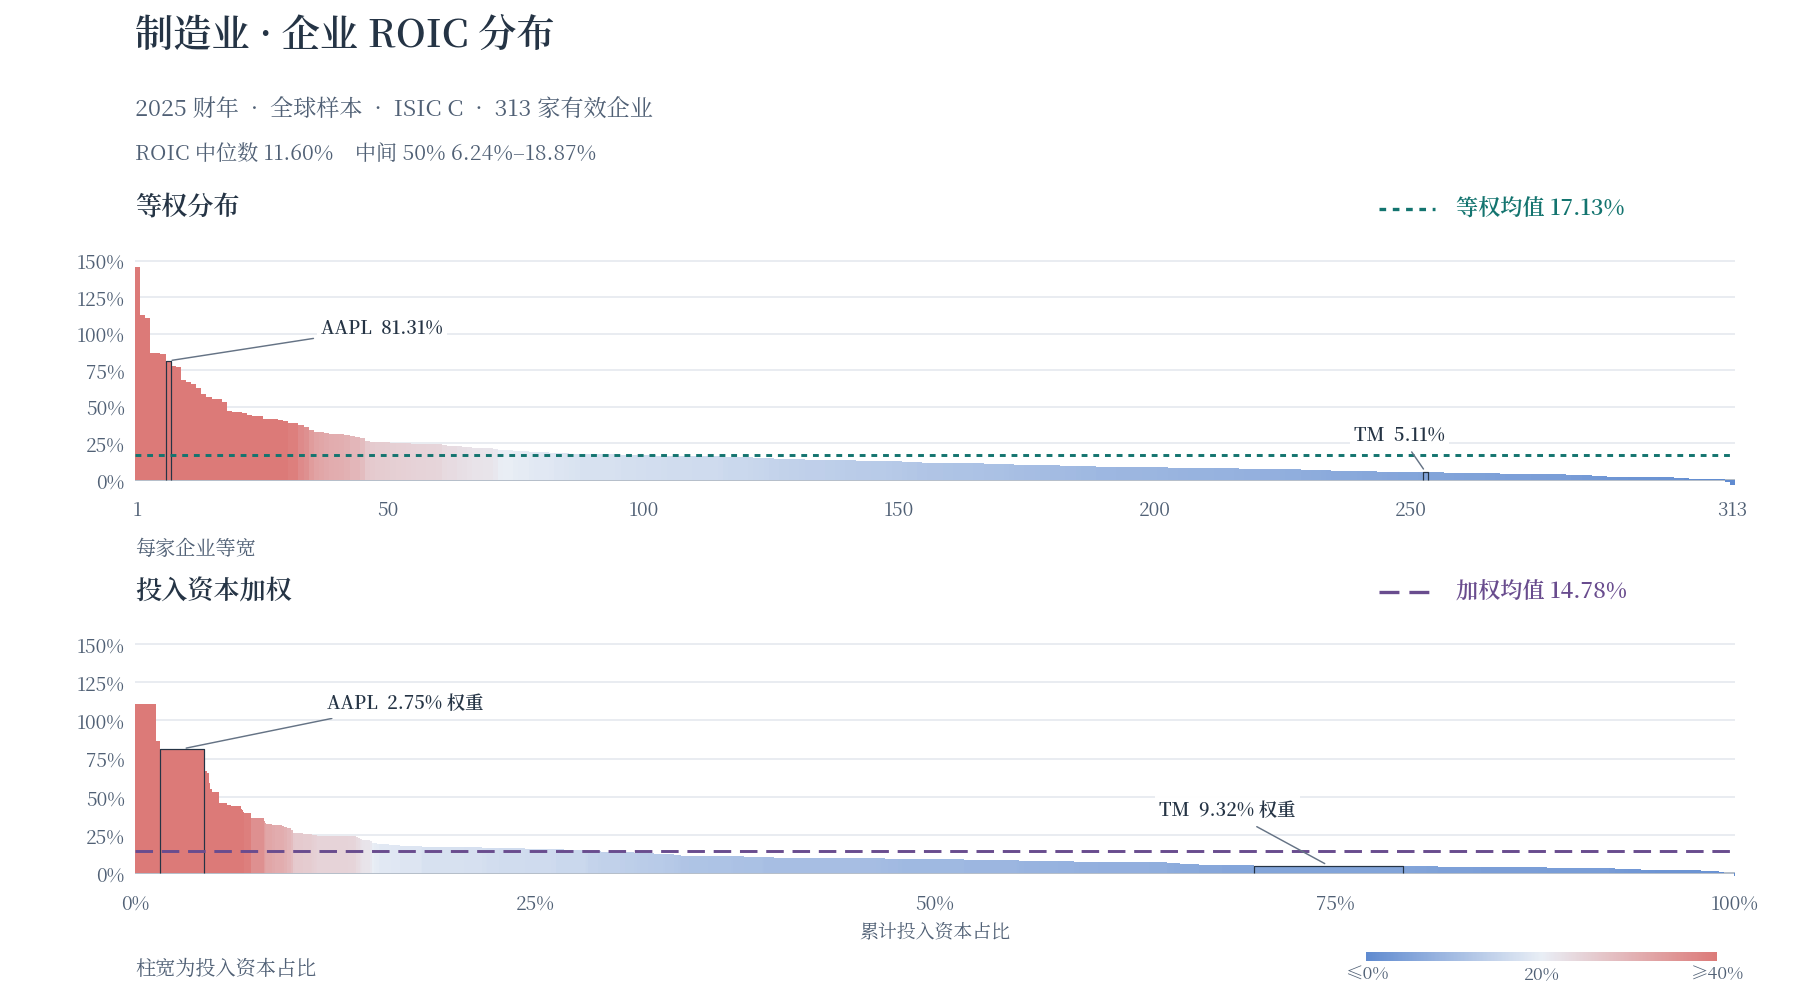
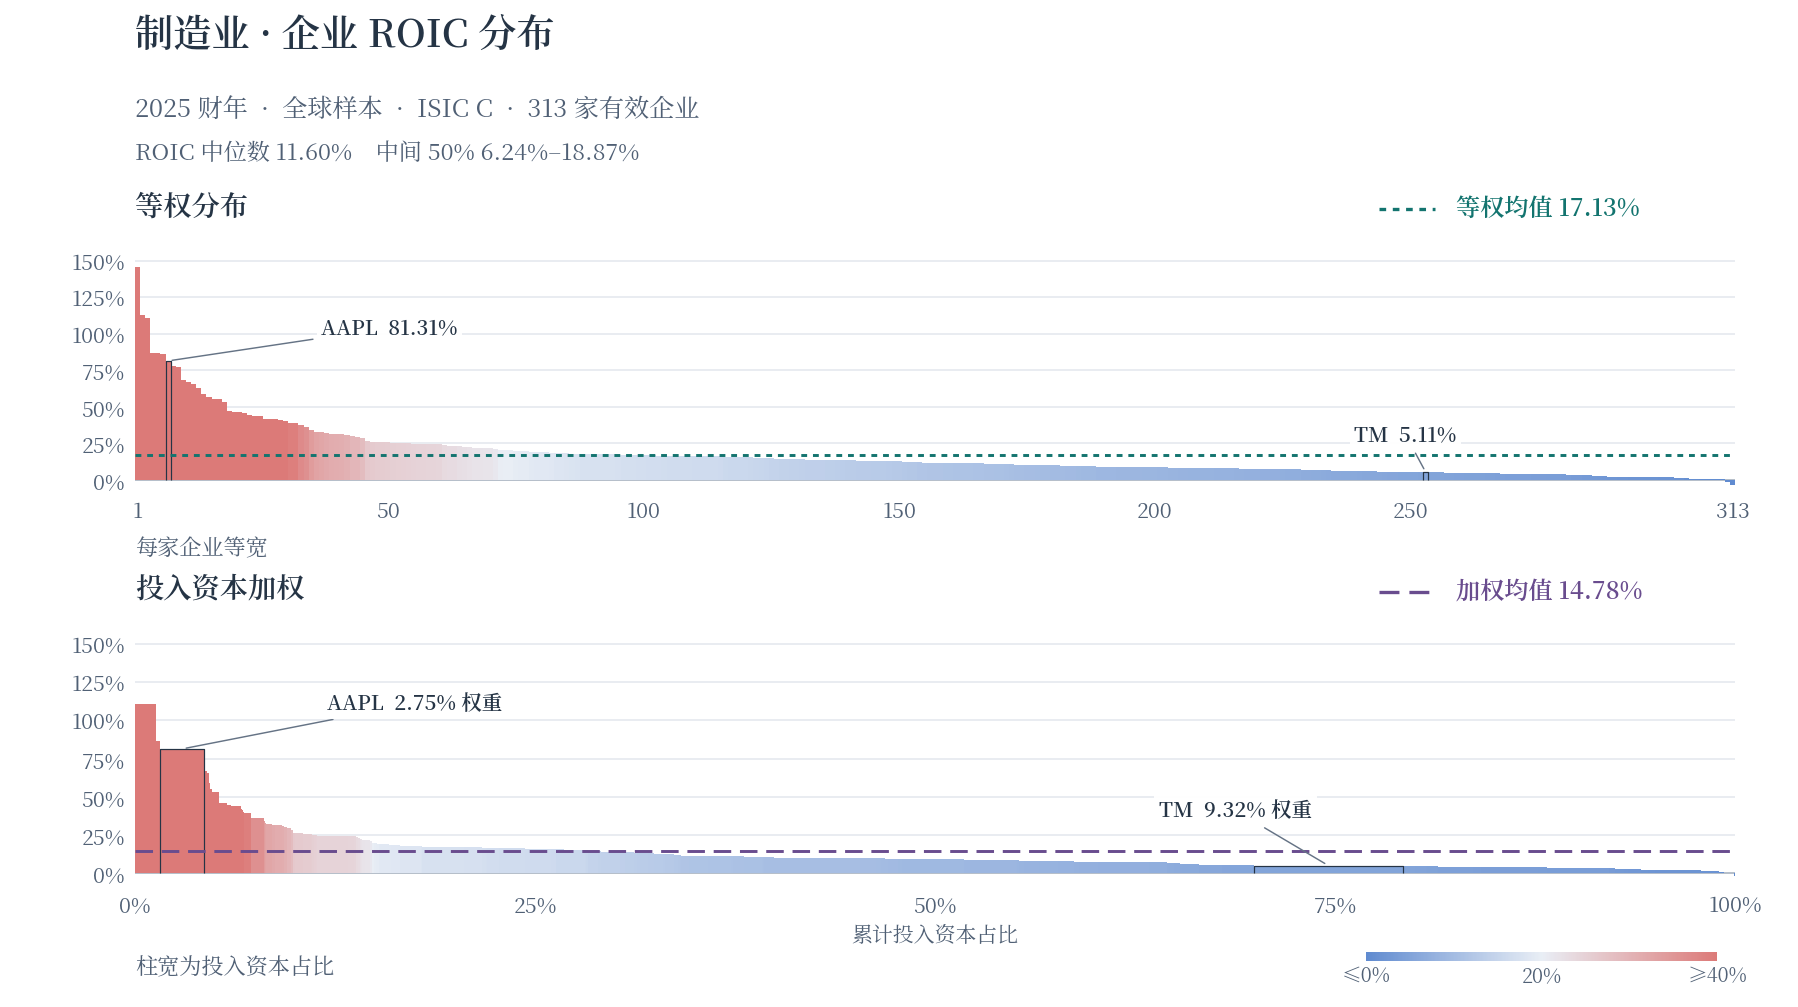
Duplicate trend charts and improve figure labels

diff --git a/dist/chart.js b/dist/chart.js
@@ -54,6 +54,14 @@ export function chartRows(charts) {
 export function canMoveChart(rows,index,direction) {
   return Boolean(rows[index+direction])||(rows.length===1&&rows[index].length>1);
 }
+export function insertChartBelow(charts,source,copy) {
+  const rows=chartRows(charts),index=rows.findIndex(row=>row.includes(source));
+  rows.splice(index+1,0,[copy]);
+  return numberChartRows(rows);
+}
+function numberChartRows(rows) {
+  return rows.flatMap((row,index)=>row.map(item=>Object.assign(item,{row:index})));
+}
 export function moveChartInRows(charts,chart,direction) {
   const rows=chartRows(charts);
   const index=rows.findIndex(row=>row.includes(chart)),current=rows[index],adjacent=rows[index+direction];
@@ -69,7 +77,7 @@ export function moveChartInRows(charts,chart,direction) {
     adjacent.forEach(item=>delete item.weight);
     rows.splice(index,1);
   }
-  return rows.flatMap((row,index)=>row.map(item=>Object.assign(item,{row:index})));
+  return numberChartRows(rows);
 }
 export const chartRowKey=row=>row.map(chart=>chart.id).join("|");
 export const chartParts=chart=>chart.parts??[chart];
@@ -96,11 +104,13 @@ function plotHTML(chart,plot,meta,live,valuesOpen) {
     '</summary><div class="chart-numbers-scroll" tabindex="0" aria-label="'+esc(pair("图表数值","Chart values"))+'"></div></details>';
 }
 function chartActions(rows,index,chart,live) {
+  const copyIcon='<svg viewBox="0 0 20 20" width="15" height="15" aria-hidden="true"><path d="M6 13H4a1 1 0 0 1-1-1V4a1 1 0 0 1 1-1h8a1 1 0 0 1 1 1v2" fill="none" stroke="currentColor" stroke-width="1.4"/><rect x="7" y="7" width="10" height="10" rx="1.3" fill="none" stroke="currentColor" stroke-width="1.4"/></svg>';
   const saveIcon='<svg viewBox="0 0 20 20" width="15" height="15" aria-hidden="true"><path d="M4 3.5h10l2.5 2.5v10.5h-13v-13h.5Zm2.5 0V8h7V3.5m-7 13V11h7v5.5" fill="none" stroke="currentColor" stroke-linejoin="round" stroke-width="1.4"/></svg>';
   return '<div class="chart-actions"><div class="chart-move">'+
     moveButton(-1,canMoveChart(rows,index,-1),pair("上移图表","Move chart up"))+
     moveButton(1,canMoveChart(rows,index,1),pair("下移图表","Move chart down"))+'</div>'+
-    (live?chartButton("data-save-chart"+(chart.pins.length?"":" disabled"),pair("保存图表","Save chart"),saveIcon):"")+
+    (live?chartButton("data-copy-chart",pair("复制图表","Duplicate chart"),copyIcon)+
+      chartButton("data-save-chart"+(chart.pins.length?"":" disabled"),pair("保存图表","Save chart"),saveIcon):"")+
     chartButton("data-chart-remove",pair("移除图表","Remove chart"),"×")+'</div>';
 }
 function rowSelection(row,selected) {

diff --git a/dist/app.js b/dist/app.js
@@ -1,7 +1,7 @@
 import {$,bindSearch,downloadCSV,esc,api,research,modes,modeLabel,modeTerm,options,finite,annual,measure,qualityNotes,observation,format,unitLabel,link,scale} from "./model.js";
 import {applyStatic,setLanguage,prefs,save,languages,scopeLabel,countryName,companyLocation,locale,pair,prose,nameOf,companyNames,paragraphs} from "./i18n.js";
 import {bindGlossary,glossary,metricLabel,renderGlossarySettings,setAllHints} from "./glossary.js";
-import {renderCharts,redraw,moveChartInRows} from "./chart.js";
+import {renderCharts,redraw,insertChartBelow,moveChartInRows} from "./chart.js";
 import {initialScreen,matchesScreen,matchesIndustry,issuerFilterOptions,renderRules,presetOptions,presetFor,savePreset,deletePreset,isWatched,toggleWatch,pagerHTML,peerStats,tablePageSize} from "./screener.js";
 import {renderDirectory} from "./directory.js";
 import {renderAdvanced,requestAdvanced} from "./advanced.js";
@@ -1542,6 +1542,13 @@ function wire() {
     const b=e.target.closest("button"),chart=state.charts.find(c=>c.id===Number(b?.closest("[data-chart]")?.dataset.chart));
     if (!b||!chart) return;
     if (b.hasAttribute("data-locate-series")) {void locateSeries(chart.pins[Number(b.dataset.locateSeries)],b);return;}
+    if (b.hasAttribute("data-copy-chart")) {
+      const copy={...chart,id:state.nextChart++,pins:[...chart.pins],defaultPins:false,weight:undefined};
+      state.charts=insertChartBelow(state.charts,chart,copy);
+      showCharts(true);
+      $("charts").querySelector('[data-chart="'+copy.id+'"] [data-chart-metric]').focus();
+      return;
+    }
     if (b.hasAttribute("data-save-chart")) {if (chart.pins.length) openSaveChart(chart);return;}
     if (b.hasAttribute("data-move-chart")) state.charts=moveChartInRows(state.charts,chart,Number(b.dataset.moveChart));
     if (b.hasAttribute("data-chart-active")) state.active=chart.id;

diff --git a/dist/research.css b/dist/research.css
@@ -197,7 +197,7 @@ main { display:grid; grid-template-rows:minmax(345px,1fr) auto; min-height:0; mi
 .chart-row { display:flex; align-items:flex-start; gap:10px; min-width:0; }
 .chart-row > .chart { flex:var(--chart-weight,1) 1 0; min-width:0; }
 .chart-actions,.legend-item,.legend-static { display:inline-flex; align-items:center; }
-.chart-controls:has(.chart-actions) { position:relative; padding-inline-end:92px; min-height:28px; }
+.chart-controls:has(.chart-actions) { position:relative; padding-inline-end:124px; min-height:28px; }
 .chart-actions { gap:4px; position:absolute; inset-block-start:0; inset-inline-end:0; }
 .chart-actions > button { display:grid; place-items:center; width:28px; height:28px; flex:none; padding:0; }
 .chart-move { display:grid; grid-template-rows:1fr 1fr; flex:none; width:23px; height:28px; }
